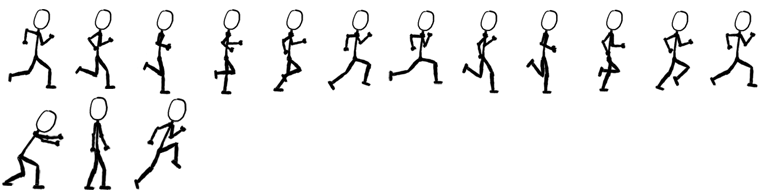
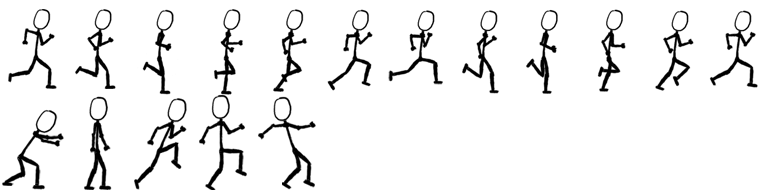
Added structure for displaying effects that the player's actions might produce.  Added a dust cloud when the player jumps using this.

Changed region(s): [[0.25, 0.5, 0.4062, 1.0], [0.25, 0.9211, 0.2812, 1.0], [0.2812, 0.5, 0.3125, 0.5526]]

diff --git a/src/Shift/Player.java b/src/Shift/Player.java
@@ -11,14 +11,17 @@ public class Player extends Sprite
 	private static final int HEIGHT = 95;
 	private static final int WIDTH = 64;
 	private static final int JUMP_FORCE = -7;
-	Shift parent;
-	boolean flipHoriz, flipVertical;
+	
 	private boolean jumping, onSurface, pushing, pushLeft;
+	boolean flipHoriz, flipVertical;
+	short health, armor; //These will be between 0 and 100
+	
 	private Sprite onWhat, pushingWhat; //Goes with onSurface and pushing
+	private HistoryManager history;
+	private ArrayList<SpecialEffect> effects;
+	Shift parent;
 	Inventory inven;
 	Actions currentAction;
-	private HistoryManager history;
-	short health, armor; //These will be between 0 and 100
 	Dimensions currDim;
 	
 	public Player(Shift parent)
@@ -58,14 +61,19 @@ public class Player extends Sprite
 				704, 0, //Frame 11
 				0, 95,  //Frame 12 Push
 				64, 95, //13 - Stand
-				128, 95); //14 - Jump Take Off
+				128, 95, //14 - Jump Take Off
+				192, 95, //15 - Jump Apex
+				256, 95); //16 - Jump Fall
 		defineSequence(Actions.RUN.name, 0, 1, 2, 3, 4, 5, 6, 7, 8, 9, 10, 11);
-		defineSequence(Actions.STAND.name, 13); //TODO: make real stand sprite
+		defineSequence(Actions.STAND.name, 13); 
 		defineSequence(Actions.JUMP_TAKEOFF.name, 14); //TODO: make real jump animation
-		defineSequence(Actions.PUSH.name, 12); //TODO: make real push sprite
+		defineSequence(Actions.JUMP_FALL.name, 16);
+		defineSequence(Actions.JUMP_APEX.name, 15);
+		defineSequence(Actions.PUSH.name, 12); 
 		framerate(20);
 		
 		inven = new Inventory(parent);
+		effects = new ArrayList<SpecialEffect>();
 		flipHoriz = false;
 		flipVertical = false;
 		jumping = false;
@@ -95,12 +103,23 @@ public class Player extends Sprite
 			if(!pushing)
 			{
 				playAction(Actions.JUMP_TAKEOFF);
+				addJumpDust();
 			}
 			motion(xspeed(), yspeed() + (currDim.getGravity() < 0? -JUMP_FORCE : JUMP_FORCE));
 			jumping = true;
 			onSurface = false;
 			onWhat = null;
 		}
+	}
+
+	private void addJumpDust() 
+	{
+		DustJumpEffect dust = new DustJumpEffect(parent);
+		dust.flipVertical = flipVertical;
+		System.out.println(this.y() + "  " + flipVertical);
+		dust.position(this.x() - (flipHoriz? -20 : 20), (flipVertical? this.y() : this.y() + HEIGHT - dust.height()));
+		System.out.println("Dust X : " + dust.x() + "   Dust Y : " + dust.y());
+		effects.add(dust);
 	}
 
 	public void stand()
@@ -155,7 +174,18 @@ public class Player extends Sprite
 	{
 		if(!pushing)
 		{
-			playAction(Actions.JUMP_TAKEOFF);
+			if(yspeed() < 0.5 && yspeed() > -0.5)
+			{
+				playAction(Actions.JUMP_APEX);
+			}
+			else if((yspeed() < 0 && currDim.gravIsDown) || (yspeed() > 0 && !currDim.gravIsDown))
+			{
+				playAction(Actions.JUMP_TAKEOFF);
+			}
+			else
+			{
+				playAction(Actions.JUMP_FALL);
+			}
 		}
 	}
 	
@@ -208,7 +238,13 @@ public class Player extends Sprite
 			onWhat = null;
 			jumping = true;
 		}
-		currDim = dim;
+		if(dim != currDim)
+		{
+			currDim = dim;
+			flipVertical = !currDim.gravIsDown;
+		}
+		
+			
 		if(dim != Dimensions.DIM5)
 		{
 			history.add(new PlayerHistory(x(), y(), xspeed(), yspeed(), currFrame, 
@@ -216,7 +252,7 @@ public class Player extends Sprite
 			super.move(); //If this doesn't occur before collision detection jumping gets screwed
 			if(flipHoriz)
 				flipHorizontal();
-			if(currDim.getGravity() < 0)
+			if(flipVertical)
 				flipVertical();
 			if(onSurface)
 			{
@@ -471,6 +507,12 @@ public class Player extends Sprite
 	public void draw(Dimensions which)
 	{
 		move(which);
+		for(int i = 0; i < effects.size(); i++)
+		{
+			effects.get(i).draw();
+			if(effects.get(i).isDead())
+				effects.remove(i);
+		}
 		super.draw();
 	}
 }

diff --git a/src/Shift/SpecialEffect.java b/src/Shift/SpecialEffect.java
@@ -1,0 +1,34 @@
+package Shift;
+
+import ucigame.Image;
+import ucigame.Sprite;
+
+public class SpecialEffect extends Sprite 
+{
+	protected int lifeSpan;
+	boolean flipVertical;
+	
+	public SpecialEffect(Image img)
+	{
+		super(img);
+		flipVertical = false;
+	}
+	
+	public SpecialEffect(int width, int height)
+	{
+		super(width, height);
+	}
+	
+	public boolean isDead()
+	{
+		return lifeSpan <= 0;
+	}
+	
+	public void draw()
+	{
+		if(flipVertical)
+			super.flipVertical();
+		super.draw();
+		lifeSpan--;
+	}
+}

diff --git a/src/Shift/DustJumpEffect.java b/src/Shift/DustJumpEffect.java
@@ -1,0 +1,22 @@
+package Shift;
+
+import ucigame.Image;
+
+public class DustJumpEffect extends SpecialEffect 
+{
+	public DustJumpEffect(Shift parent)
+	{
+		super(80, 20);
+		Image dust = parent.getImage(Constants.IMG_DIR + "Temp/JumpDust.png");
+		addFrames(dust,
+				0, 0,
+				80, 0,
+				160, 0,
+				240, 0,
+				320, 0);
+		defineSequence("Poof", 0, 1, 2, 3, 4);
+		play("Poof");
+		framerate(30);
+		lifeSpan = 5;
+	}
+}

diff --git a/src/Shift/Shift.java b/src/Shift/Shift.java
@@ -27,7 +27,6 @@ public class Shift extends Ucigame
 	private int mouseX, mouseY;
 	private LevelEditor editor;
 	public GameState state;
-	
 	private LevelObject levelObject;
 //	Sprite testSprite; TODO: Remove test Sprite when done
 
